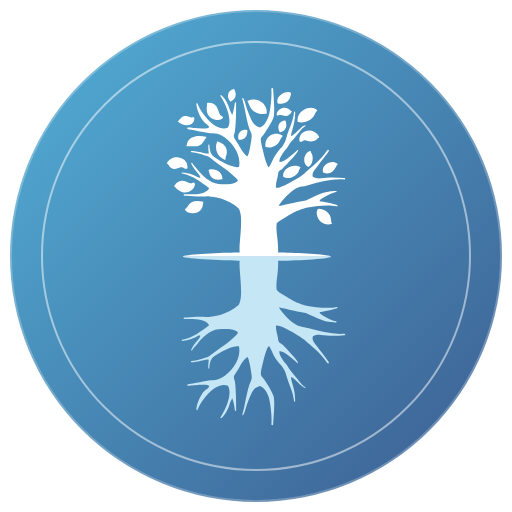
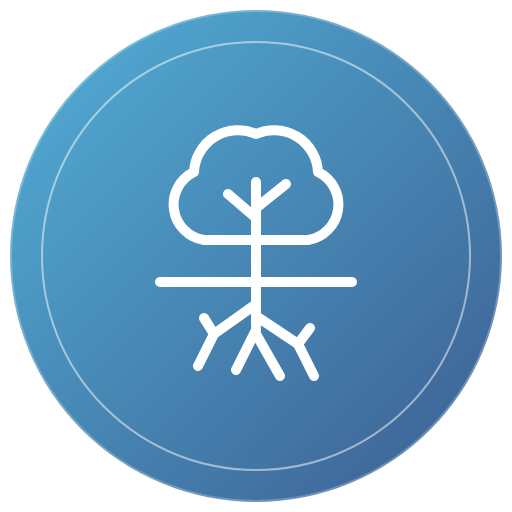
Значки: контурное дерево, сеть связей для Части 2, варианты спецкурса

Changed region(s): [[0.2812, 0.1562, 0.7188, 0.8125]]

diff --git a/.claude/badges/gen.py b/.claude/badges/gen.py
@@ -7,28 +7,22 @@ BLUE='#3C5D90'; SKY='#52B0D8'; PURPLE='#A42BB9'; PINK='#D63F8C'
 def stroke_g(c, w):
     return f'<g fill="none" stroke="{c}" stroke-width="{w}" stroke-linecap="round" stroke-linejoin="round">'
 
-# --- Часть 1: дерево с логотипа kabacademy.com (svg-symbols.svg#logo-icon-white, viewBox 0 0 21 40) ---
-def ic_logo_tree(c='#fff', w=10):
-    xml=open(os.path.join(OUT,'logo-icon-white.xml'),encoding='utf-8').read()
-    inner=re.sub(r'^<symbol[^>]*>','',xml.strip()); inner=re.sub(r'</symbol>$','',inner)
-    inner=inner.replace('fill="#fff"',f'fill="{c}"')
-    H=340; s=H/40.0; W=21*s
-    return f'<g transform="translate({256-W/2:.2f},{256-H/2:.2f}) scale({s:.4f})">{inner}</g>'
+# --- Часть 1: контурное дерево по мотивам логотипа (крона, земля, корни) ---
+def ic_tree_outline(c='#fff', w=10):
+    return stroke_g(c,w)+'''<path d="M204 214 A36 36 0 0 1 194 146 A44 44 0 0 1 256 108 A44 44 0 0 1 318 146 A36 36 0 0 1 308 214 Z"/>
+<path d="M256 214 V156"/><path d="M256 192 L228 168"/><path d="M256 182 L286 158"/>
+<path d="M256 214 V300"/><path d="M160 256 H352"/>
+<path d="M256 278 L214 308 L198 340"/><path d="M256 290 L298 318 L314 350"/><path d="M256 304 L236 344"/><path d="M256 308 L280 350"/>
+<path d="M214 308 L204 292"/><path d="M298 318 L310 302"/></g>'''
 
-# --- Часть 2: как прежний значок — сфирот в кольце, стрела входит снизу ---
-def ic_sefirot_ring(c='#fff', w=10):
-    nodes=[(256,372),(256,318),(200,290),(312,290),(256,232),(200,204),(312,204),(200,140),(312,140),(256,110)]
-    edges=[(0,1),(1,2),(1,3),(1,4),(2,4),(3,4),(2,5),(3,6),(2,3),(4,5),(4,6),(5,6),(5,7),(6,8),(4,7),(4,8),(7,8),(7,9),(8,9),(5,8),(6,7)]
-    s=stroke_g(c,5)
-    for a,b in edges: s+=f'<path d="M{nodes[a][0]} {nodes[a][1]} L{nodes[b][0]} {nodes[b][1]}"/>'
+# --- Часть 2: сеть связей (узлы и рёбра) ---
+NET_NODES=[(256,146),(338,192),(352,288),(284,358),(190,338),(158,236),(248,254)]
+NET_EDGES=[(0,1),(1,2),(2,3),(3,4),(4,5),(5,0),(6,0),(6,1),(6,2),(6,3),(6,4),(6,5),(0,2),(3,5)]
+def ic_network(c='#fff', w=10, fill='none'):
+    s=stroke_g(c,8)
+    for a,b in NET_EDGES: s+=f'<path d="M{NET_NODES[a][0]} {NET_NODES[a][1]} L{NET_NODES[b][0]} {NET_NODES[b][1]}"/>'
     s+='</g>'
-    for x,y in nodes: s+=f'<circle cx="{x}" cy="{y}" r="17" fill="none" stroke="{c}" stroke-width="{w}"/>'
-    # кольцо с разрывом внизу + стрела вверх
-    R=178; cx,cy=256,250
-    a1=math.radians(90+20); a2=math.radians(90-20)
-    x1,y1=cx+R*math.cos(a1),cy+R*math.sin(a1); x2,y2=cx+R*math.cos(a2),cy+R*math.sin(a2)
-    s+=stroke_g(c,w)+f'<path d="M{x1:.1f} {y1:.1f} A{R} {R} 0 1 1 {x2:.1f} {y2:.1f}"/>'
-    s+='<path d="M256 448 V402 M228 426 L256 398 L284 426"/></g>'
+    for x,y in NET_NODES: s+=f'<circle cx="{x}" cy="{y}" r="18" fill="{fill}" stroke="{c}" stroke-width="{w}"/>'
     return s
 
 def ic_essay(c='#fff', w=10):
@@ -40,28 +34,43 @@ def ic_worlds(c='#fff', w=10):
     return stroke_g(c,w)+'''<circle cx="256" cy="286" r="26"/><circle cx="256" cy="286" r="54"/><circle cx="256" cy="286" r="82"/><circle cx="256" cy="286" r="110"/>
 <path d="M256 132 V262 M232 240 L256 264 L280 240"/></g>'''
 
+def ic_worlds_cone(c='#fff', w=10):
+    # точка наверху, свет расходится конусом, четыре мира-ступени
+    return stroke_g(c,w)+'''<circle cx="256" cy="134" r="12" fill="'''+c+'''"/>
+<path d="M256 150 L146 372 M256 150 L366 372"/>
+<path d="M228 206 H284 M209 246 H303 M190 286 H322 M171 326 H341"/></g>'''
+
+def ic_worlds_arcs(c='#fff', w=10):
+    # точка и четыре расходящихся от неё дуги-мира
+    s=stroke_g(c,w)+f'<circle cx="256" cy="136" r="12" fill="{c}"/>'
+    for r in (56,104,152,200):
+        s+=f'<path d="M{256-r*0.78:.1f} {136+r*0.62:.1f} A{r} {r} 0 0 0 {256+r*0.78:.1f} {136+r*0.62:.1f}"/>'
+    return s+'</g>'
+
 def ic_book_light(c='#fff', w=10):
     return stroke_g(c,w)+'''<path d="M166 262 Q211 240 256 262 V372 Q211 350 166 372 Z"/><path d="M346 262 Q301 240 256 262 V372 Q301 350 346 372 Z"/>
 <path d="M190 288 Q222 276 236 284 M190 316 Q222 304 236 312 M322 288 Q290 276 276 284 M322 316 Q290 304 276 312"/>
 <path d="M256 142 V176 M212 156 L228 186 M300 156 L284 186 M186 200 L216 212 M326 200 L296 212"/></g>'''
 
-COURSES=[('part1','Классическая каббала · Часть 1', ic_logo_tree, (SKY,BLUE), 2),
-         ('part2','Классическая каббала · Часть 2', ic_sefirot_ring, (BLUE,PURPLE), -8),
+COURSES=[('part1','Классическая каббала · Часть 1', ic_tree_outline, (SKY,BLUE), 26),
+         ('part2','Классическая каббала · Часть 2', ic_network, (BLUE,PURPLE), 4),
          ('essay','Работа с первоисточниками / Эссе', ic_essay, (PURPLE,PINK), 0),
-         ('worlds','Спецкурс «Система мироздания»', ic_worlds, ('#2B6CB0',SKY), 0),
+         ('worlds','Спецкурс: 4 круга (было)', ic_worlds, ('#2B6CB0',SKY), 0),
+         ('worlds2','Спецкурс: точка и конус света, 4 мира', ic_worlds_cone, ('#2B6CB0',SKY), 0),
+         ('worlds3','Спецкурс: точка и 4 расходящихся мира', ic_worlds_arcs, ('#2B6CB0',SKY), 0),
          ('book','Тайны Вечной Книги', ic_book_light, ('#7B3FA8',SKY), 0)]
 
 def badge(key,icon,grad,dy):
     c1,c2=grad
     return f'''<svg xmlns="http://www.w3.org/2000/svg" viewBox="0 0 512 512" width="512" height="512">
-<defs><linearGradient id="g{key}" x1="0" y1="0" x2="1" y2="1"><stop offset="0" stop-color="{c1}"/><stop offset="1" stop-color="{c2}"/></linearGradient></defs>
+<defs><linearGradient id="g{key}" gradientUnits="userSpaceOnUse" x1="10" y1="10" x2="502" y2="502"><stop offset="0" stop-color="{c1}"/><stop offset="1" stop-color="{c2}"/></linearGradient></defs>
 <circle cx="256" cy="256" r="246" fill="url(#g{key})"/>
 <circle cx="256" cy="256" r="246" fill="none" stroke="#fff" stroke-opacity=".25" stroke-width="4"/>
 <circle cx="256" cy="256" r="214" fill="none" stroke="#fff" stroke-opacity=".5" stroke-width="2"/>
-<g transform="translate(0,{dy})">{icon()}</g>
+<g transform="translate(0,{dy})">{icon(fill=f'url(#g{key})') if key=='part2' else icon()}</g>
 </svg>'''
 
-page=['<!doctype html><html><head><meta charset="utf-8"><style>body{font-family:Arial;margin:0;padding:24px;background:#fff;color:#222;width:1300px}.row{display:flex;gap:24px;align-items:flex-end}.b{width:220px;text-align:center;font-size:12px;color:#7A7A7A}.b svg{width:220px;height:220px}.mini svg{width:72px;height:72px}.cap{font-size:12px;color:#7A7A7A;margin-bottom:6px}</style></head><body><div class="row">']
+page=['<!doctype html><html><head><meta charset="utf-8"><style>body{font-family:Arial;margin:0;padding:24px;background:#fff;color:#222;width:1750px}.row{display:flex;gap:24px;align-items:flex-end}.b{width:200px;text-align:center;font-size:12px;color:#7A7A7A}.b svg{width:200px;height:200px}.mini svg{width:72px;height:72px}.cap{font-size:12px;color:#7A7A7A;margin-bottom:6px}</style></head><body><div class="row">']
 minis=[]
 for key,name,icon,grad,dy in COURSES:
     s=badge(key,icon,grad,dy)

diff --git a/.claude/badges/README.md b/.claude/badges/README.md
@@ -4,10 +4,10 @@
 
 | Файл | Курс | Иконка |
 |---|---|---|
-| `badge_part1` | Классическая каббала · Часть 1 | дерево с логотипа kabacademy.com (`svg-symbols.svg#logo-icon-white`) |
-| `badge_part2` | Классическая каббала · Часть 2 | сфирот в кольце со стрелой снизу — мотив прежнего значка |
+| `badge_part1` | Классическая каббала · Часть 1 | контурное дерево с кроной и корнями, по мотивам логотипа kabacademy.com |
+| `badge_part2` | Классическая каббала · Часть 2 | сеть связей (узлы и рёбра) |
 | `badge_essay` | Работа с первоисточниками / Эссе | лист и перо |
-| `badge_worlds` | Спецкурс «Система мироздания» | четыре мира + луч |
+| `badge_worlds` / `worlds2` / `worlds3` | Спецкурс «Система мироздания» | варианты: 4 круга + луч; точка и конус света с 4 ступенями; точка и 4 расходящиеся дуги |
 | `badge_book` | Тайны Вечной Книги | книга под лучами |
 
 Сборка: `python gen.py` пишет `badge_*.svg` и `preview.html`; PNG 512×512 с прозрачным фоном — headless Edge
